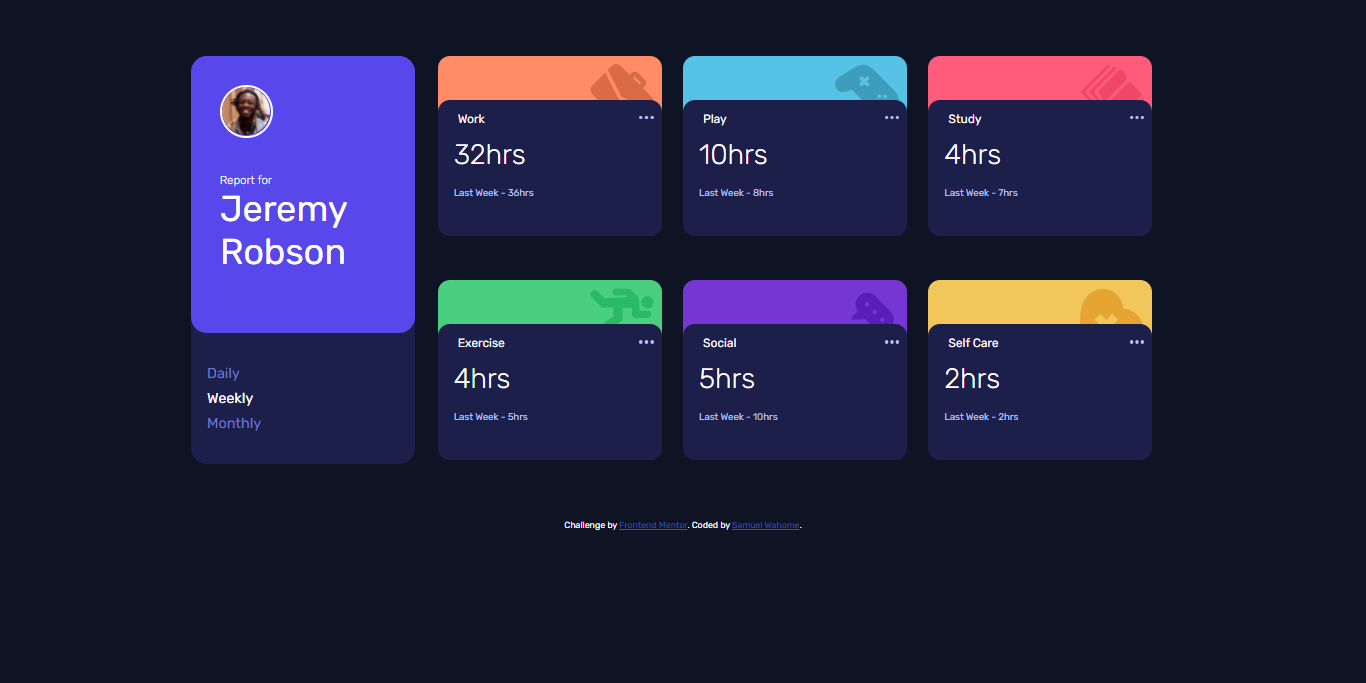
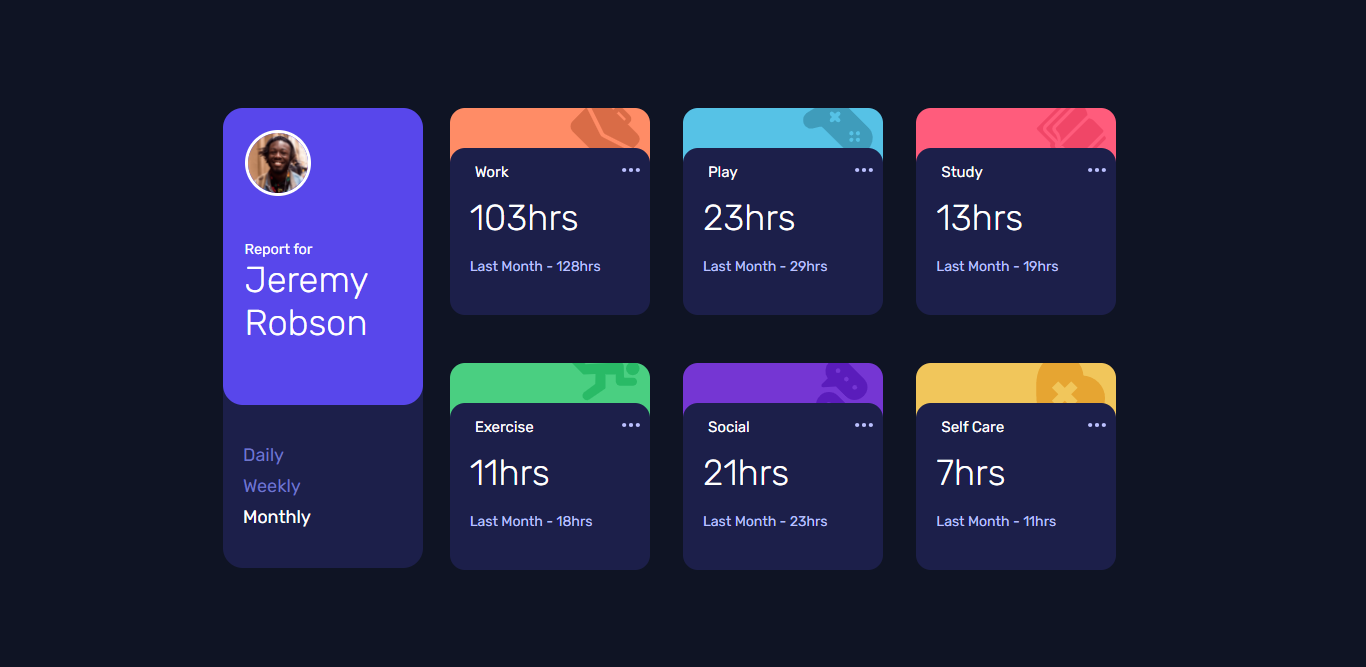
Fix CSS remove attribution and center vertical

diff --git a/style.css b/style.css
@@ -12,6 +12,7 @@ html{
 body {
     background-color: hsl(226, 43%, 10%);
     color:white;
+    padding-top: 6em;
 }
 .blue{
     background-color: hsl(246, 80%, 60%);
@@ -47,10 +48,9 @@ body {
     background-color:hsl(236, 100%, 87%)
 } 
 .container{
-    padding-top: 50px;
-    width: 1230px;
+    width: 920px;
     max-width: 96%;
-    margin: 20px auto;
+    margin: auto auto;
     display: flex;
     flex-wrap: wrap;
     justify-content: space-around;
@@ -58,7 +58,7 @@ body {
 
 
 .profile{
-    width: 280px;
+    width: 200px;
     max-width: 95%;
     margin-bottom: 50px;
 }
@@ -66,7 +66,7 @@ body {
     border-radius: 20px;
 }
 .profile-box{
-    padding: 2em;
+    padding: 1.2em;
 }
 .profile img {
     width: 60px;
@@ -78,11 +78,12 @@ body {
 .profile-title{
     font-size: 0.8em;
     margin-top: 40px;
-    font-weight: 300;
+    
 }
 .profile-name{
-    font-size: 2.5em;
+    font-size: 2em;
     margin-bottom: 40px;
+    font-weight: 300;
 }
 .menu{
     margin: 30px auto;
@@ -105,38 +106,46 @@ body {
     justify-content: space-around;
     margin: 0 auto;
     flex-wrap: wrap;
-    width: 920px;
+    width: 700px;
     max-width: 95%;
 }
 
 .card-bg{
-    width: 280px;
-    max-width: 95%;   
+    width: 200px;
+    max-width: 95%; 
     position: relative;
-    height: 170px;
-    margin-bottom: 60px;
+    height: 160px;
+    margin-bottom: 40px;
+  
 }
 .card-icon{
-    height: 40px;
+    height: 65px;
+    overflow: hidden;
+    width: 100%;
+    position: relative;
 }
 .card-bg img{
     position: absolute;
     top: 10px;
     right: 10px;
-    width: 80px;
+    width: 70px;
     z-index: 0;
+    margin-top: -20px;
     
 }
 .card{
     position: relative;
     background-color: hsl(235, 46%, 20%);
     z-index: 15;
-    padding: 0;
+    padding-bottom: 40px;
     width: 100%;
-    height: 170px;
+    margin-top: -40px;
     
 }
-.card-bg,.card{
+.card-bg{
+    border-radius: 15px;
+}
+.card{
     border-radius: 15px;
 }
 .topic{margin-top: 15px;
@@ -157,13 +166,13 @@ body {
 }
 .monthly,.weekly,.daily{
     margin-left: 20px;
-    font-size: 35px;
+    font-size: 2em;
     font-weight: 300;
 }
 .daily-active .daily-previous,.weekly-previous,.monthly-previous{
     margin-left: 20px;
     margin-top: 20px;
-    font-size: 12px;
+    font-size: 14px;
     color: hsl(236, 100%, 87%);
 }
 .daily,.daily-previous,

diff --git a/index.html b/index.html
@@ -157,10 +157,6 @@
       </div>
     </div>
   </div>
-  <div class="attribution">
-    Challenge by <a href="https://www.frontendmentor.io?ref=challenge" target="_blank">Frontend Mentor</a>. 
-    Coded by <a href="#">Samuel Wahome</a>.
-  </div>
   <script>
       function updateTimes(el,duration = 0){
         let bodyElement = document.getElementsByTagName("body");
